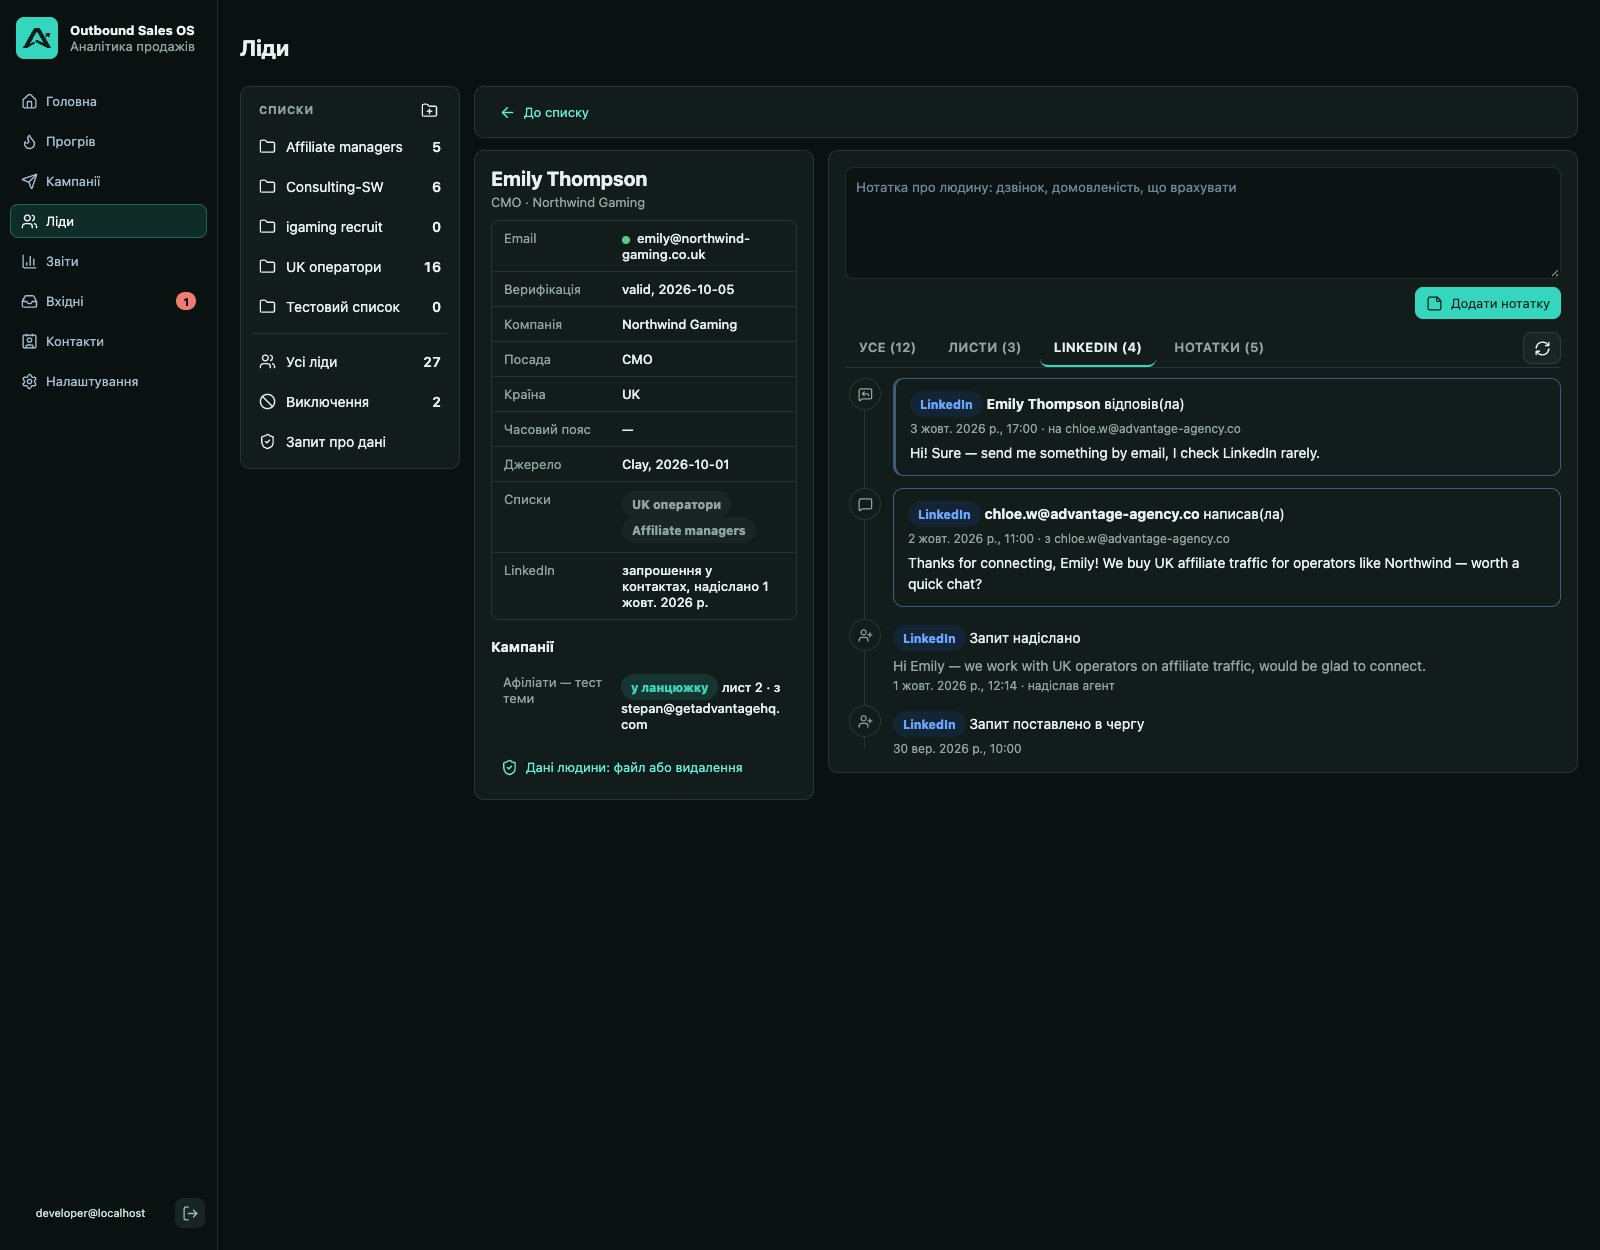
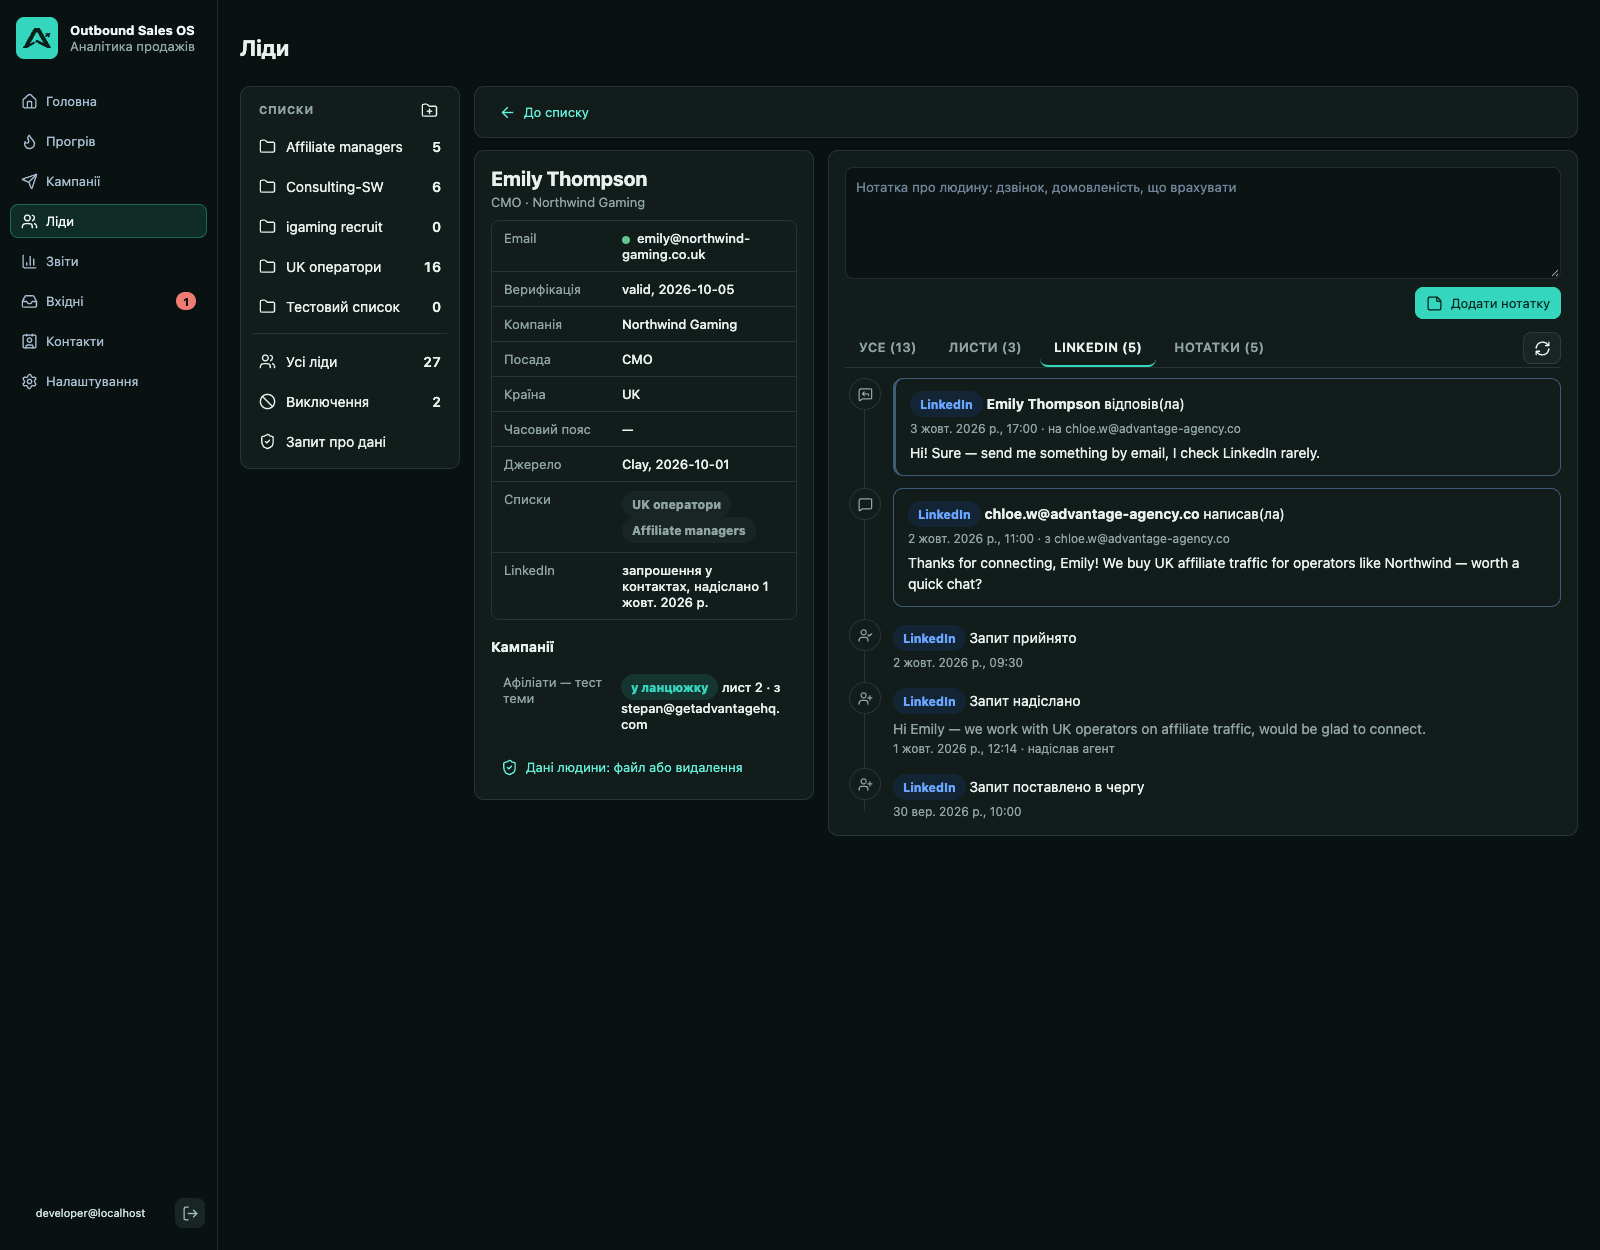
LinkedIn: прийняття запиту — рядок в історії людини (invite.accepted з датою перевірки), а не лише статус; видно в картці ліда й у «Контактах»

Changed region(s): [[0.5312, 0.4992, 0.875, 0.6552]]

diff --git a/app/screens/mail-leads.js b/app/screens/mail-leads.js
@@ -231,7 +231,7 @@ function linkedinItem(entry, card) {
   const meta = (text) => `<div class="leads-event-meta">${escapeHtml(when(entry.at))}${text ? ` · ${text}` : ""}</div>`;
   if (entry.kind === "invite") {
     const by = entry.meta?.by === "agent" ? "надіслав агент" : entry.meta?.by ? "надіслано вручну" : "";
-    return { kind: "linkedin", icon: "user-plus", at: entry.at, html: `<div class="leads-event-line is-linkedin">
+    return { kind: "linkedin", icon: entry.event === "invite.accepted" ? "user-check" : "user-plus", at: entry.at, html: `<div class="leads-event-line is-linkedin">
       <p><span class="pill tone-done">LinkedIn</span> ${escapeHtml(HISTORY_EVENT_LABEL[entry.event] || entry.event)}</p>
       ${entry.meta?.note ? `<pre>${escapeHtml(entry.meta.note)}</pre>` : ""}
       ${meta(escapeHtml([by, entry.meta?.outcome].filter(Boolean).join(" · ")))}

diff --git a/app/core.js b/app/core.js
@@ -232,6 +232,7 @@ export const HISTORY_EVENT_LABEL = {
   "invite.cancelled": "Запит скасовано",
   "invite.reassigned": "Запит перекинуто на інший акаунт",
   "invite.failed": "Запит не вдалося надіслати",
+  "invite.accepted": "Запит прийнято",
   // The folder let the person go and will not offer them again; a seller can
   // still queue them by hand.
   "campaign.skipped": "Автопідбір більше не братиме цю людину"
